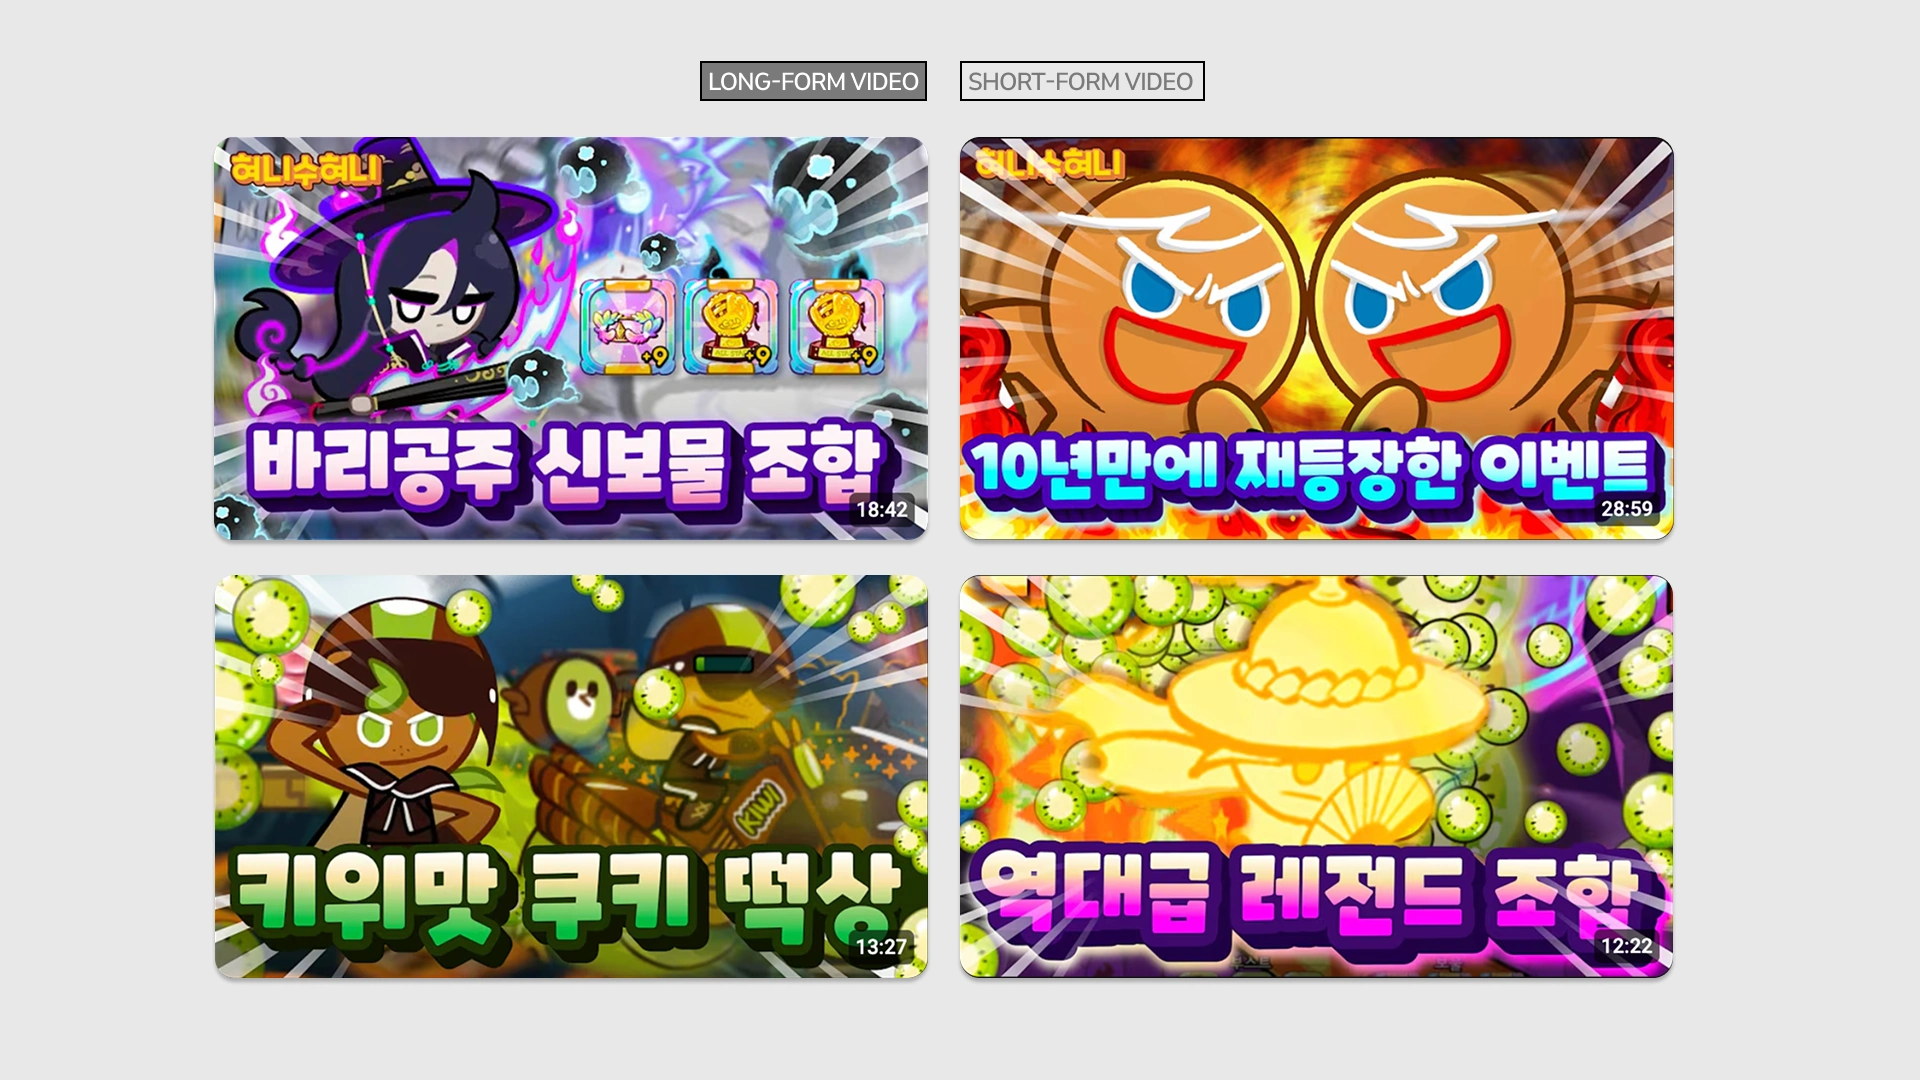
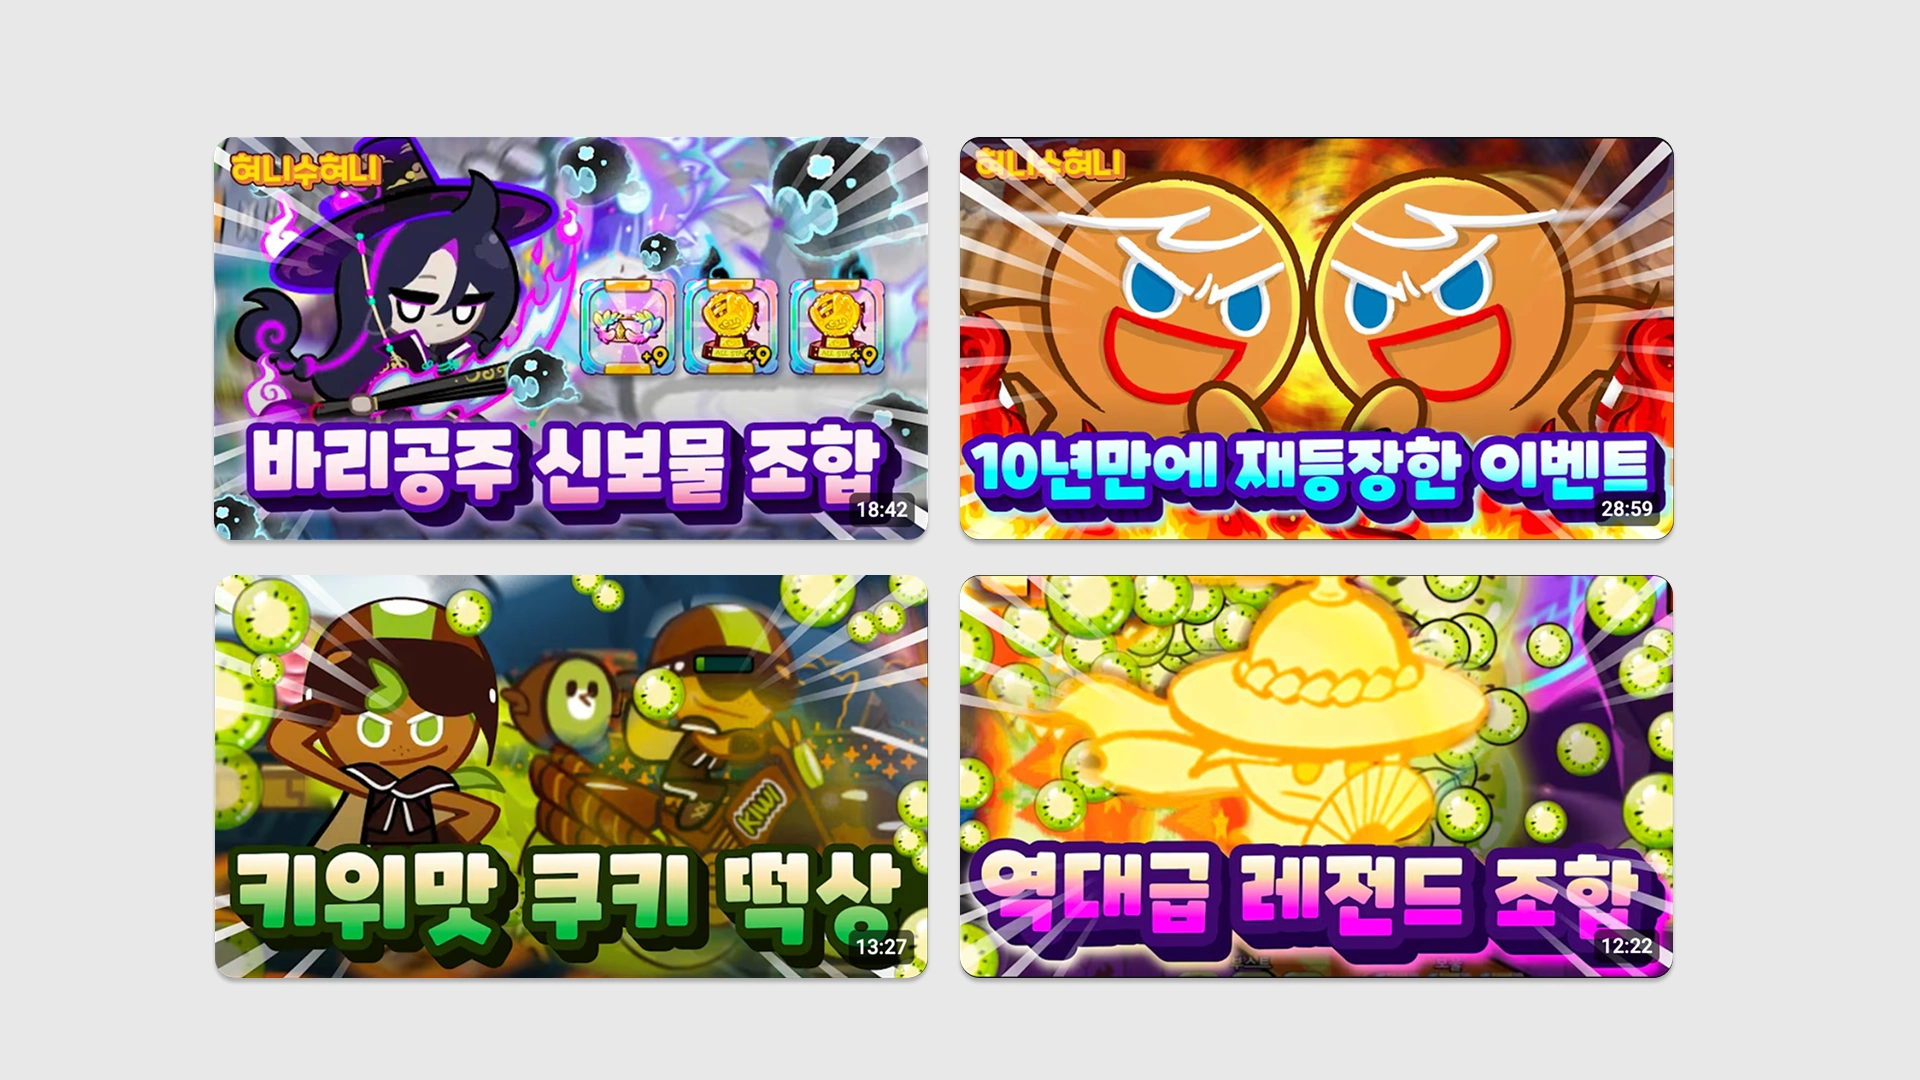
상세 4 탭을 진짜 버튼으로 다시 그리고, 상세 1 영상을 80%로
상세 4 — 그림에 찍혀 있던 탭은 지면과 함께 늘어나 흐려 보였다.
버튼 뺀 그림으로 갈아 끼우고 탭을 HTML 버튼으로 다시 세웠다.
가이드(고침1·고침2) 실측대로 상자 227×40 / 245×40, 테두리 2px #000,
바탕 #7a7a7a·#e7e7e7, 글자 Pretendard 24.75px 자간 −0.8px.
크기는 모두 지면 폭(cqw) 기준이라 화면이 커져도 글자가 뭉개지지 않는다.
가이드와 픽셀 대조 결과 탭 구역 평균차 6.8/255 — 글자 테두리 보정 차이뿐이다.

상세 1 — 영상을 화면의 80% 크기로 줄이고 가운데에 세웠다.

홈 부제 — NAVER TASK와 YouTube EDITER에 큰따옴표를 넣었다.

Changed region(s): [[0.3438, 0.0306, 0.625, 0.0917]]

diff --git a/assets/css/style.css b/assets/css/style.css
@@ -594,6 +594,18 @@ body.is-ended #reel {
 
 .reel-btn { /* .btn 과 동일 규격 */ }
 
+/* 화면을 꽉 채우지 않고 80% 크기로 가운데 세우는 판 (naver.html) */
+body.inset {
+  display: flex;
+  align-items: center;
+  justify-content: center;
+}
+body.inset #reel {
+  width: 80vw;
+  height: 80vh;
+  height: 80dvh;
+}
+
 /* 사운드 토글 — 하단 중앙 */
 .sound {
   position: fixed;
@@ -781,40 +793,72 @@ body.deck {
   max-height: none;
 }
 
-/* ── 상단 탭 (700×227 / 960×245, y 61, 높이 40) ── */
+/* ── 상단 탭 — 가이드(고침1·고침2) 실측대로 다시 그렸다 ──
+   상자 700×227 / 960×245, y 61, 높이 40, 테두리 2px #000.
+   고른 쪽은 바탕 #7a7a7a 흰 글자, 나머지는 바탕색 그대로에 #7a7a7a 글자.
+   글자는 Pretendard 24.75px / 자간 −0.8px — 가이드와 폭·높이가 같다.
+   크기는 전부 지면 폭(cqw) 기준이라 화면이 커져도 글자가 뭉개지지 않는다. */
 .yt-tab {
   position: absolute;
   top: 5.6481%;
   height: 3.7037%;
   z-index: 5;
-  margin: 0; padding: 0; border: 0;
-  background: transparent;
+  box-sizing: border-box;
+  display: flex;
+  align-items: center;
+  justify-content: center;
+
+  margin: 0;
+  padding: 0;
+  border: 2px solid #000;
+  border-width: .1042cqw;
+  background: #e7e7e7;
+  color: #7a7a7a;
+
+  font-family: inherit;
+  font-weight: 400;
+  font-size: 25px;
+  font-size: 1.2891cqw;
+  letter-spacing: -.8px;
+  letter-spacing: -.0417cqw;
+  line-height: 1;
+  white-space: nowrap;
+
   cursor: pointer;
   -webkit-tap-highlight-color: transparent;
   transform-origin: center center;
-  transition: transform .28s cubic-bezier(.22, .61, .36, 1);
+  transition: transform .28s cubic-bezier(.22, .61, .36, 1),
+              background .25s ease, color .25s ease;
 }
+
+/* letter-spacing 은 마지막 글자 뒤에도 붙는다. 그만큼 되돌려 가운데를 맞춘다 */
+.yt-tab > span {
+  display: block;
+  margin-right: 2px;
+  margin-right: .1042cqw;
+}
+
 .yt-tab--long  { left: 36.4583%; width: 11.8229%; }
 .yt-tab--short { left: 50%;      width: 12.7604%; }
 
-/* 올렸을 때 살짝 깔리는 막 — 글자는 그림에 찍혀 있으므로 건드리지 않는다 */
-.yt-tab::before {
-  content: "";
-  position: absolute;
-  inset: 0;
-  background: rgba(0, 0, 0, .12);
-  opacity: 0;
-  transition: opacity .25s ease;
+/* 보고 있는 쪽 */
+.yt-tab[aria-pressed="true"] {
+  background: #7a7a7a;
+  color: #fff;
+  cursor: default;
 }
-.yt-tab:hover::before { opacity: 1; }
-.yt-tab:hover  { transform: scale(1.045); }
-.yt-tab:active { transform: scale(.975); transition-duration: .08s; }
-.yt-tab:focus-visible { outline: 2px solid #111; outline-offset: 4px; }
 
-/* 이미 보고 있는 쪽은 눌러도 소용없으니 가만히 둔다 */
-.yt-tab[aria-pressed="true"] { cursor: default; }
-.yt-tab[aria-pressed="true"]:hover { transform: none; }
-.yt-tab[aria-pressed="true"]:hover::before { opacity: 0; }
+/* 올렸을 때 — 고른 쪽은 가만히 둔다 */
+.yt-tab[aria-pressed="false"]:hover {
+  background: #dcdcdc;
+  color: #4f4f4f;
+  transform: scale(1.04);
+}
+.yt-tab[aria-pressed="false"]:active {
+  transform: scale(.975);
+  transition-duration: .08s;
+}
+.yt-tab:focus-visible { outline: 2px solid #111; outline-offset: 4px; }
 
 @media (prefers-reduced-motion: reduce) {
   .yt-tab:hover, .yt-tab:active { transform: none; }
@@ -832,6 +876,7 @@ body.deck {
   position: relative;
   width: min(100%, calc(100dvh * 1920 / 1080));
   aspect-ratio: 1920 / 1080;
+  container-type: inline-size;   /* 탭이 지면 크기를 따라 같이 커진다 */
 }
 
 .tile {

diff --git a/youtube.html b/youtube.html
@@ -28,7 +28,7 @@
     <!-- 1장 · 롱폼 -->
     <div class="sheet-fade is-on" data-sheet>
       <img src="assets/img/y-01.webp" width="1920" height="1080"
-           alt="LONG-FORM VIDEO — 롱폼 영상 네 편" decoding="async" fetchpriority="high">
+           alt="롱폼 영상 네 편" decoding="async" fetchpriority="high">
 
       <a class="tile tile--long ln-1" href="https://www.youtube.com/watch?v=tZqTGkilLVc"
          target="_blank" rel="noopener noreferrer" aria-label="바리공주 신보물 조합 — 유튜브에서 보기 (새 창)">
@@ -58,7 +58,7 @@
     <!-- 2장 · 숏폼 -->
     <div class="sheet-fade" data-sheet>
       <img src="assets/img/y-02.webp" width="1920" height="1080"
-           alt="SHORT-FORM VIDEO — 숏폼 영상 세 편" decoding="async">
+           alt="숏폼 영상 세 편" decoding="async">
 
       <a class="tile tile--short sh-1" href="https://www.youtube.com/shorts/yJa4ezgwMyo"
          target="_blank" rel="noopener noreferrer" aria-label="쿠키런 레전드 14단 발악 점프 — 유튜브에서 보기 (새 창)">
@@ -81,9 +81,9 @@
 
     <!-- 상단 탭 — 그림에 찍힌 버튼 자리에 그대로 얹는다 -->
     <button class="yt-tab yt-tab--long" type="button" data-go="0"
-            aria-pressed="true" aria-label="롱폼 영상 보기"></button>
+            aria-pressed="true"><span>LONG-FORM VIDEO</span></button>
     <button class="yt-tab yt-tab--short" type="button" data-go="1"
-            aria-pressed="false" aria-label="숏폼 영상 보기"></button>
+            aria-pressed="false"><span>SHORT-FORM VIDEO</span></button>
 
   </div>
 </div>

diff --git a/index.html b/index.html
@@ -24,7 +24,7 @@
   <a class="item" id="item-naver" href="naver.html" data-transition aria-label="네이버 과제 보기">
     <img class="item__icon" src="assets/img/icon-naver.webp" alt="" width="148" height="187" decoding="async">
     <p class="item__title">NAVER TASK</p>
-    <span class="item__sub"><span class="item__sub-in">놀러가자</span></span>
+    <span class="item__sub"><span class="item__sub-in">“놀러가자”</span></span>
   </a>
 
   <a class="item" id="item-motion" href="motion.html" data-transition aria-label="모션그래픽 프로젝트 보기">
@@ -41,7 +41,7 @@
   <a class="item" id="item-youtube" href="youtube.html" data-transition aria-label="유튜브 편집물 보기">
     <img class="item__icon" src="assets/img/icon-youtube.webp" alt="" width="221" height="191" decoding="async">
     <p class="item__title">YouTube EDITER</p>
-    <span class="item__sub"><span class="item__sub-in">쿠키런 혀니수혀니 편집자</span></span>
+    <span class="item__sub"><span class="item__sub-in">“쿠키런 혀니수혀니 편집자”</span></span>
   </a>
 
 </div>

diff --git a/naver.html b/naver.html
@@ -11,7 +11,7 @@
 <link rel="preconnect" href="https://cdn.jsdelivr.net" crossorigin>
 <link rel="stylesheet" href="assets/css/style.css">
 </head>
-<body class="detail reel">
+<body class="detail reel inset">
 
 <a class="btn back" href="index.html" data-transition aria-label="홈으로 돌아가기">
   <svg viewBox="0 0 24 24" fill="none" stroke="currentColor" stroke-width="2.4"
